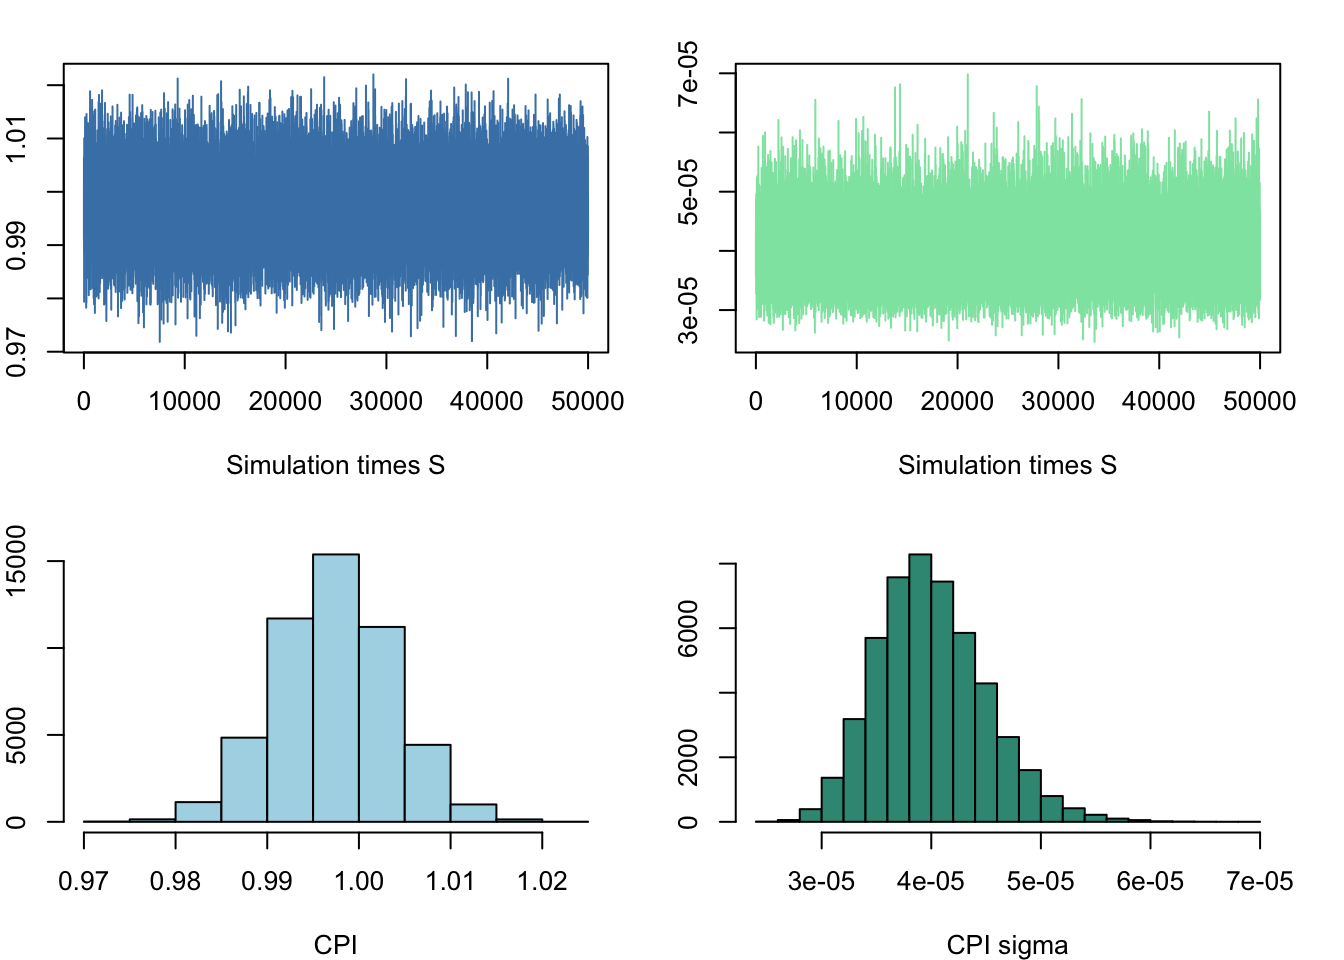
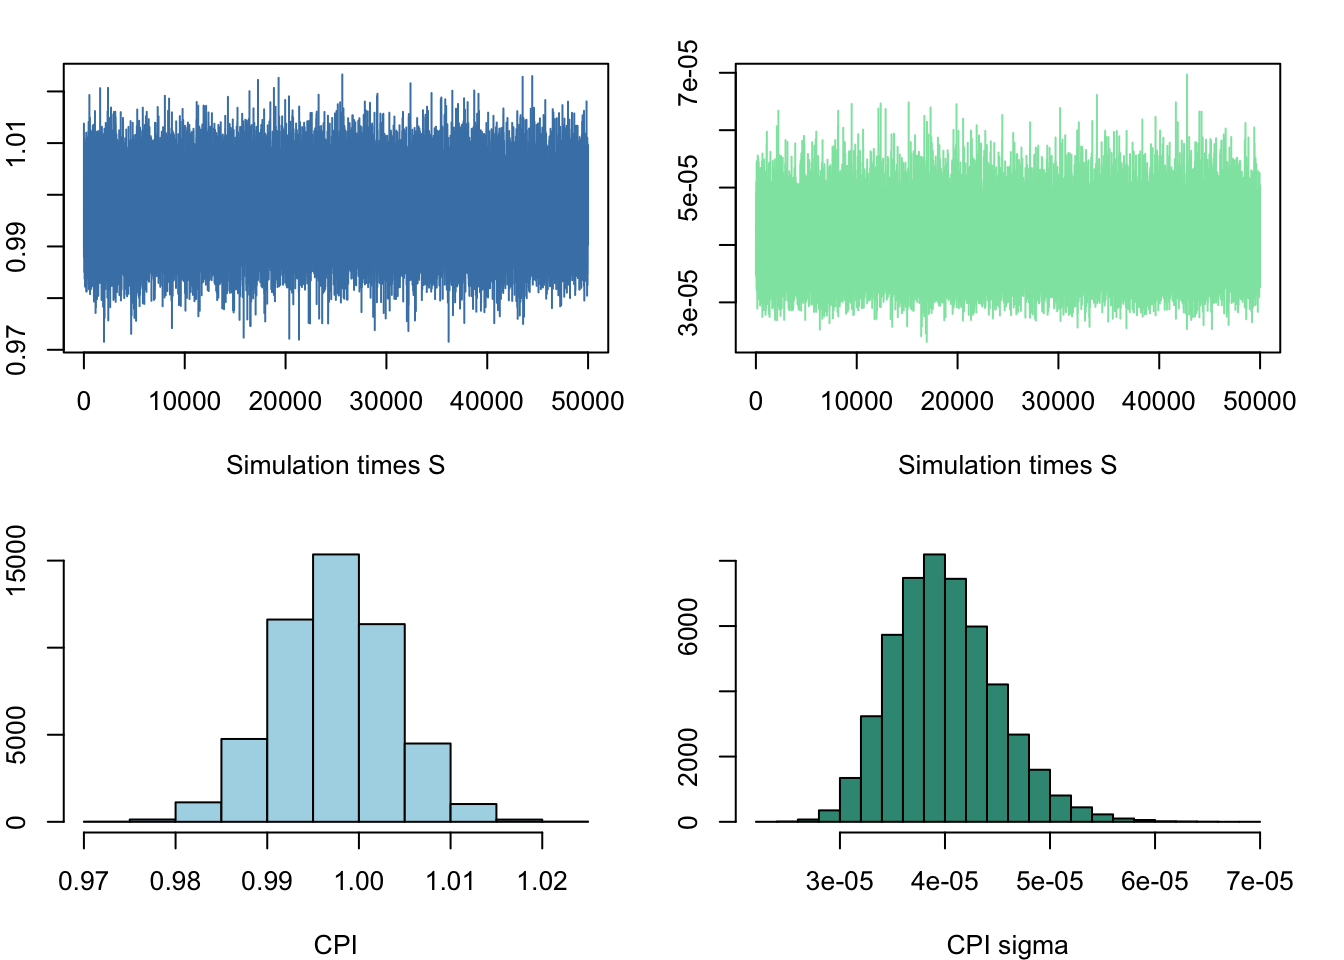
update A matrix

diff --git a/docs/index.html b/docs/index.html
@@ -491,7 +491,7 @@ E &amp;=
 <h2 class="anchored" data-anchor-id="estimation-procedure-and-algorithm">Estimation Procedure and Algorithm</h2>
 <section id="basic-model" class="level3">
 <h3 class="anchored" data-anchor-id="basic-model">Basic Model</h3>
-<p>The basic model based on the natural-conjugate prior distribution, which is specified as a matrix normal inverse Wishart distribution <span class="citation" data-cites="wozniakBsvarsBayesianEstimation2022">(<a href="#ref-wozniakBsvarsBayesianEstimation2022" role="doc-biblioref">Woźniak 2022</a>)</span>. Minnesota prior with some stylised facts about the macroeconomic time series, since <span class="math inline">\(cpi_t\)</span> and <span class="math inline">\(m_t\)</span> are unit root non-stationary and other all variables are stationary, is applied to form the specifications of the prior distribution.</p>
+<p>The basic model based on the natural-conjugate prior distribution, which is specified as a matrix normal inverse Wishart distribution <span class="citation" data-cites="wozniakBsvarsBayesianEstimation2022">(<a href="#ref-wozniakBsvarsBayesianEstimation2022" role="doc-biblioref">Woźniak 2022</a>)</span>. Minnesota prior with some stylised facts about the macroeconomic time series, since <span class="math inline">\(lcpi_t\)</span> and <span class="math inline">\(lm_t\)</span> are unit root non-stationary and other all variables are stationary, is applied to form the specifications of the prior distribution.</p>
 <p>The estimation procedures to draw from the posterior follows the steps below:</p>
 <p><strong>Step 1</strong>: Prior distribution is presented below. We will specify <span class="math inline">\(\underline{A}\)</span>, <span class="math inline">\(\underline{V}\)</span>, <span class="math inline">\(\underline{S}\)</span> and <span class="math inline">\(\underline{v}\)</span>.</p>
 <p><span class="math display">\[
@@ -499,18 +499,10 @@ p(A,\Sigma) = p(A|\Sigma)p(\Sigma)
 \]</span></p>
 <p><span class="math display">\[A|\Sigma \sim \mathcal{MN}_{K\times N}(\underline{A}, \Sigma,\underline{V} ) \]</span> <span class="math display">\[\Sigma \sim \mathcal{IW}_{N}(\underline{S}, \underline{v})\]</span></p>
 <ul>
-<li><span class="math inline">\(\underline{A}\)</span> is a <span class="math inline">\(K \times 10\)</span> matrix, reflect the random walk with no drift process on the first lag of <span class="math inline">\(cpi_{t}\)</span>, and 0 elsewhere.</li>
+<li><span class="math inline">\(\underline{A}\)</span> is a <span class="math inline">\(K \times 10\)</span> matrix, reflect the random walk with no drift process on the first lag of <span class="math inline">\(lcpi_{t}\)</span> and <span class="math inline">\(lm_{t}\)</span>, and 0 elsewhere.</li>
 </ul>
-<p><span class="math display">\[
-\underline{A} = \left[
-\underbrace{\textbf{0}_{10\times 1}}_{intercept} \quad
-\underbrace{\textbf{I}_{10} \quad\begin{matrix}
-0 &amp; \cdots  &amp;  0\\
-\vdots  &amp; \ddots  &amp; \vdots  \\
-0 &amp; \cdots  &amp; 0
-\end{matrix}_{10\times10(p-1))}}_{N\times(K-1)} \quad
-\right]'
-\]</span></p>
+<p>$$ = ’</p>
+<p>$$</p>
 <ul>
 <li><p><span class="math inline">\(\underline{V}\)</span> represents the shrinking level of the specified <span class="math inline">\(\underline{A}\)</span>.</p>
 <p>It’s a <span class="math inline">\(K\)</span> vector diagonal matrix with the diagonal elements set to be the desired shrinking level.</p></li>
@@ -534,91 +526,49 @@ p(\Sigma|Y,X)\sim \mathcal{IW}_{N}(\overline{S}, \overline{v})
 \]</span></p>
 <p>Therefore we can get: <span class="math display">\[
 \overline{V} = (X'X + \underline{V}^{-1})^{-1}
-\]</span> <span class="math display">\[
+\]</span></p>
+<p><span class="math display">\[
 \overline{A} = \overline{V}(X'Y+\underline{V}^{-1}\underline{A})
-\]</span> <span class="math display">\[
+\]</span></p>
+<p><span class="math display">\[
 \overline{v} = T + \underline{v}
-\]</span> <span class="math display">\[
+\]</span></p>
+<p><span class="math display">\[
 \overline{S} = \underline{S}+Y'Y+\underline{A'} \ \underline{V}^{-1}\underline{A}-\overline{A'}\overline{V}^{-1}\overline{A}
 \]</span></p>
 <p><strong>Step 3</strong>: As <span class="math inline">\(\overline{A}\)</span>, <span class="math inline">\(\overline{V}\)</span>, <span class="math inline">\(\overline{S}\)</span> and <span class="math inline">\(\overline{v}\)</span> are specified:</p>
 <ul>
-<li>firstly draw <span class="math inline">\(\Sigma\)</span> from <span class="math inline">\(\mathcal{IW}_{10}(\overline{S}, \overline{v})\)</span>, and take <span class="math inline">\(\Sigma\)</span> as known</li>
-<li>insert it in <span class="math inline">\(\mathcal{MN}_{K\times 10}(\overline{A}, \Sigma,\overline{V} )\)</span> to draw <span class="math inline">\(A\)</span></li>
+<li>Firstly, draw <span class="math inline">\(\Sigma\)</span> from <span class="math inline">\(\mathcal{IW}_{10}(\overline{S}, \overline{v})\)</span>, and take <span class="math inline">\(\Sigma\)</span> as known</li>
+<li>Secondly, insert it in <span class="math inline">\(\mathcal{MN}_{K\times 10}(\overline{A}, \Sigma,\overline{V} )\)</span> to draw <span class="math inline">\(A\)</span></li>
 </ul>
 <div class="cell" data-layout-align="center">
 <div class="sourceCode cell-code" id="cb1"><pre class="sourceCode r code-with-copy"><code class="sourceCode r"><span id="cb1-1"><a href="#cb1-1" aria-hidden="true" tabindex="-1"></a><span class="do">## Posterior sample draw function for basic model(posterior.draws)</span></span>
-<span id="cb1-2"><a href="#cb1-2" aria-hidden="true" tabindex="-1"></a></span>
-<span id="cb1-3"><a href="#cb1-3" aria-hidden="true" tabindex="-1"></a></span>
-<span id="cb1-4"><a href="#cb1-4" aria-hidden="true" tabindex="-1"></a>posterior.draws       <span class="ot">=</span> <span class="cf">function</span> (S, Y, X){</span>
-<span id="cb1-5"><a href="#cb1-5" aria-hidden="true" tabindex="-1"></a>    <span class="co"># normal-inverse Wishard posterior parameters</span></span>
-<span id="cb1-6"><a href="#cb1-6" aria-hidden="true" tabindex="-1"></a>    V.bar.inv         <span class="ot">=</span> <span class="fu">t</span>(X)<span class="sc">%*%</span>X <span class="sc">+</span> <span class="fu">diag</span>(<span class="dv">1</span><span class="sc">/</span><span class="fu">diag</span>(V.prior))</span>
-<span id="cb1-7"><a href="#cb1-7" aria-hidden="true" tabindex="-1"></a>    V.bar             <span class="ot">=</span> <span class="fu">solve</span>(V.bar.inv)</span>
-<span id="cb1-8"><a href="#cb1-8" aria-hidden="true" tabindex="-1"></a>    A.bar             <span class="ot">=</span> V.bar<span class="sc">%*%</span>(<span class="fu">t</span>(X)<span class="sc">%*%</span>Y <span class="sc">+</span> <span class="fu">diag</span>(<span class="dv">1</span><span class="sc">/</span><span class="fu">diag</span>(V.prior))<span class="sc">%*%</span>A.prior)</span>
-<span id="cb1-9"><a href="#cb1-9" aria-hidden="true" tabindex="-1"></a>    nu.bar            <span class="ot">=</span> <span class="fu">nrow</span>(Y) <span class="sc">+</span> nu.prior</span>
-<span id="cb1-10"><a href="#cb1-10" aria-hidden="true" tabindex="-1"></a>    S.bar             <span class="ot">=</span> S.prior <span class="sc">+</span> <span class="fu">t</span>(Y)<span class="sc">%*%</span>Y <span class="sc">+</span> <span class="fu">t</span>(A.prior)<span class="sc">%*%</span><span class="fu">diag</span>(<span class="dv">1</span><span class="sc">/</span><span class="fu">diag</span>(V.prior))<span class="sc">%*%</span>A.prior <span class="sc">-</span> <span class="fu">t</span>(A.bar)<span class="sc">%*%</span>V.bar.inv<span class="sc">%*%</span>A.bar</span>
-<span id="cb1-11"><a href="#cb1-11" aria-hidden="true" tabindex="-1"></a>    S.bar.inv         <span class="ot">=</span> <span class="fu">solve</span>(S.bar)</span>
-<span id="cb1-12"><a href="#cb1-12" aria-hidden="true" tabindex="-1"></a>    </span>
-<span id="cb1-13"><a href="#cb1-13" aria-hidden="true" tabindex="-1"></a>nu.prior</span>
-<span id="cb1-14"><a href="#cb1-14" aria-hidden="true" tabindex="-1"></a>  </span>
-<span id="cb1-15"><a href="#cb1-15" aria-hidden="true" tabindex="-1"></a>    <span class="co"># posterior draws </span></span>
-<span id="cb1-16"><a href="#cb1-16" aria-hidden="true" tabindex="-1"></a>    Sigma.posterior   <span class="ot">=</span> <span class="fu">rWishart</span>(S, <span class="at">df=</span>nu.bar, <span class="at">Sigma=</span>S.bar.inv)</span>
-<span id="cb1-17"><a href="#cb1-17" aria-hidden="true" tabindex="-1"></a>    Sigma.posterior   <span class="ot">=</span> <span class="fu">apply</span>(Sigma.posterior,<span class="dv">3</span>,solve)</span>
-<span id="cb1-18"><a href="#cb1-18" aria-hidden="true" tabindex="-1"></a>    Sigma.posterior   <span class="ot">=</span> <span class="fu">array</span>(Sigma.posterior,<span class="fu">c</span>(N,N,S))</span>
-<span id="cb1-19"><a href="#cb1-19" aria-hidden="true" tabindex="-1"></a>    A.posterior       <span class="ot">=</span> <span class="fu">array</span>(<span class="fu">rnorm</span>(<span class="fu">prod</span>(<span class="fu">c</span>(<span class="fu">dim</span>(A.bar),S))),<span class="fu">c</span>(<span class="fu">dim</span>(A.bar),S))</span>
-<span id="cb1-20"><a href="#cb1-20" aria-hidden="true" tabindex="-1"></a>    L                 <span class="ot">=</span> <span class="fu">t</span>(<span class="fu">chol</span>(V.bar))</span>
-<span id="cb1-21"><a href="#cb1-21" aria-hidden="true" tabindex="-1"></a>    </span>
+<span id="cb1-2"><a href="#cb1-2" aria-hidden="true" tabindex="-1"></a>posterior.draws       <span class="ot">=</span> <span class="cf">function</span> (S, Y, X){</span>
+<span id="cb1-3"><a href="#cb1-3" aria-hidden="true" tabindex="-1"></a>  </span>
+<span id="cb1-4"><a href="#cb1-4" aria-hidden="true" tabindex="-1"></a>    <span class="co"># normal-inverse Wishard posterior parameters</span></span>
+<span id="cb1-5"><a href="#cb1-5" aria-hidden="true" tabindex="-1"></a>    V.bar.inv         <span class="ot">=</span> <span class="fu">t</span>(X)<span class="sc">%*%</span>X <span class="sc">+</span> <span class="fu">diag</span>(<span class="dv">1</span><span class="sc">/</span><span class="fu">diag</span>(V.prior))</span>
+<span id="cb1-6"><a href="#cb1-6" aria-hidden="true" tabindex="-1"></a>    V.bar             <span class="ot">=</span> <span class="fu">solve</span>(V.bar.inv)</span>
+<span id="cb1-7"><a href="#cb1-7" aria-hidden="true" tabindex="-1"></a>    A.bar             <span class="ot">=</span> V.bar<span class="sc">%*%</span>(<span class="fu">t</span>(X)<span class="sc">%*%</span>Y <span class="sc">+</span> <span class="fu">diag</span>(<span class="dv">1</span><span class="sc">/</span><span class="fu">diag</span>(V.prior))<span class="sc">%*%</span>A.prior)</span>
+<span id="cb1-8"><a href="#cb1-8" aria-hidden="true" tabindex="-1"></a>    nu.bar            <span class="ot">=</span> <span class="fu">nrow</span>(Y) <span class="sc">+</span> nu.prior</span>
+<span id="cb1-9"><a href="#cb1-9" aria-hidden="true" tabindex="-1"></a>    S.bar             <span class="ot">=</span> S.prior <span class="sc">+</span> <span class="fu">t</span>(Y)<span class="sc">%*%</span>Y <span class="sc">+</span> <span class="fu">t</span>(A.prior)<span class="sc">%*%</span><span class="fu">diag</span>(<span class="dv">1</span><span class="sc">/</span><span class="fu">diag</span>(V.prior))<span class="sc">%*%</span>A.prior <span class="sc">-</span> <span class="fu">t</span>(A.bar)<span class="sc">%*%</span>V.bar.inv<span class="sc">%*%</span>A.bar</span>
+<span id="cb1-10"><a href="#cb1-10" aria-hidden="true" tabindex="-1"></a>    S.bar.inv         <span class="ot">=</span> <span class="fu">solve</span>(S.bar)</span>
+<span id="cb1-11"><a href="#cb1-11" aria-hidden="true" tabindex="-1"></a>    </span>
+<span id="cb1-12"><a href="#cb1-12" aria-hidden="true" tabindex="-1"></a>    <span class="co"># posterior draws </span></span>
+<span id="cb1-13"><a href="#cb1-13" aria-hidden="true" tabindex="-1"></a>    Sigma.posterior   <span class="ot">=</span> <span class="fu">rWishart</span>(S, <span class="at">df=</span>nu.bar, <span class="at">Sigma=</span>S.bar.inv)</span>
+<span id="cb1-14"><a href="#cb1-14" aria-hidden="true" tabindex="-1"></a>    Sigma.posterior   <span class="ot">=</span> <span class="fu">apply</span>(Sigma.posterior,<span class="dv">3</span>,solve)</span>
+<span id="cb1-15"><a href="#cb1-15" aria-hidden="true" tabindex="-1"></a>    Sigma.posterior   <span class="ot">=</span> <span class="fu">array</span>(Sigma.posterior,<span class="fu">c</span>(N,N,S))</span>
+<span id="cb1-16"><a href="#cb1-16" aria-hidden="true" tabindex="-1"></a>    A.posterior       <span class="ot">=</span> <span class="fu">array</span>(<span class="fu">rnorm</span>(<span class="fu">prod</span>(<span class="fu">c</span>(<span class="fu">dim</span>(A.bar),S))),<span class="fu">c</span>(<span class="fu">dim</span>(A.bar),S))</span>
+<span id="cb1-17"><a href="#cb1-17" aria-hidden="true" tabindex="-1"></a>    L                 <span class="ot">=</span> <span class="fu">t</span>(<span class="fu">chol</span>(V.bar))</span>
+<span id="cb1-18"><a href="#cb1-18" aria-hidden="true" tabindex="-1"></a>    </span>
+<span id="cb1-19"><a href="#cb1-19" aria-hidden="true" tabindex="-1"></a>    <span class="cf">for</span> (s <span class="cf">in</span> <span class="dv">1</span><span class="sc">:</span>S){</span>
+<span id="cb1-20"><a href="#cb1-20" aria-hidden="true" tabindex="-1"></a>      A.posterior[,,s]<span class="ot">=</span> A.bar <span class="sc">+</span> L<span class="sc">%*%</span>A.posterior[,,s]<span class="sc">%*%</span><span class="fu">chol</span>(Sigma.posterior[,,s])</span>
+<span id="cb1-21"><a href="#cb1-21" aria-hidden="true" tabindex="-1"></a>    }</span>
 <span id="cb1-22"><a href="#cb1-22" aria-hidden="true" tabindex="-1"></a></span>
-<span id="cb1-23"><a href="#cb1-23" aria-hidden="true" tabindex="-1"></a>    <span class="cf">for</span> (s <span class="cf">in</span> <span class="dv">1</span><span class="sc">:</span>S){</span>
-<span id="cb1-24"><a href="#cb1-24" aria-hidden="true" tabindex="-1"></a>      A.posterior[,,s]<span class="ot">=</span> A.bar <span class="sc">+</span> L<span class="sc">%*%</span>A.posterior[,,s]<span class="sc">%*%</span><span class="fu">chol</span>(Sigma.posterior[,,s])</span>
-<span id="cb1-25"><a href="#cb1-25" aria-hidden="true" tabindex="-1"></a>    }</span>
-<span id="cb1-26"><a href="#cb1-26" aria-hidden="true" tabindex="-1"></a></span>
-<span id="cb1-27"><a href="#cb1-27" aria-hidden="true" tabindex="-1"></a> </span>
-<span id="cb1-28"><a href="#cb1-28" aria-hidden="true" tabindex="-1"></a>    output            <span class="ot">=</span> <span class="fu">list</span>(<span class="at">A.posterior=</span>A.posterior, <span class="at">Sigma.posterior=</span>Sigma.posterior)</span>
-<span id="cb1-29"><a href="#cb1-29" aria-hidden="true" tabindex="-1"></a>    <span class="fu">return</span>(output)</span>
-<span id="cb1-30"><a href="#cb1-30" aria-hidden="true" tabindex="-1"></a>}</span>
-<span id="cb1-31"><a href="#cb1-31" aria-hidden="true" tabindex="-1"></a></span>
-<span id="cb1-32"><a href="#cb1-32" aria-hidden="true" tabindex="-1"></a><span class="do">## Function Applying</span></span>
-<span id="cb1-33"><a href="#cb1-33" aria-hidden="true" tabindex="-1"></a>posterior.sample.draws <span class="ot">=</span> <span class="fu">posterior.draws</span>(<span class="at">S=</span><span class="dv">50000</span>, <span class="at">Y=</span>Y, <span class="at">X=</span>X) <span class="co"># sample use S=50000</span></span>
-<span id="cb1-34"><a href="#cb1-34" aria-hidden="true" tabindex="-1"></a></span>
-<span id="cb1-35"><a href="#cb1-35" aria-hidden="true" tabindex="-1"></a><span class="co"># Presenting output</span></span>
-<span id="cb1-36"><a href="#cb1-36" aria-hidden="true" tabindex="-1"></a></span>
-<span id="cb1-37"><a href="#cb1-37" aria-hidden="true" tabindex="-1"></a><span class="fu">head</span>(<span class="fu">round</span>(<span class="fu">apply</span>(posterior.sample.draws<span class="sc">$</span>A.posterior, <span class="dv">1</span><span class="sc">:</span><span class="dv">2</span>, mean),<span class="dv">5</span>))           <span class="co"># posterior draw A</span></span></code><button title="Copy to Clipboard" class="code-copy-button"><i class="bi"></i></button></pre></div>
-<div class="cell-output cell-output-stdout">
-<pre><code>         [,1]     [,2]     [,3]     [,4]     [,5]     [,6]     [,7]     [,8]
-[1,]  0.00014 -0.03734  0.00100 -0.04927 -0.03278  0.00076  0.00489  0.00704
-[2,]  0.99733  0.01273 -0.00154  0.02272  0.03566 -0.00119  0.00109  0.00032
-[3,]  0.00440 -0.27211  0.00177  0.09515 -0.07547  0.00407  0.00181 -0.01128
-[4,] -0.00087  0.00816  0.99123 -0.05380 -0.04371  0.00097 -0.00780 -0.01499
-[5,]  0.00078  0.18035 -0.00150  0.37172 -0.22437 -0.00020  0.02095  0.01706
-[6,]  0.00616 -0.30535  0.02039 -0.26062  0.13142  0.00297 -0.00131 -0.03451
-         [,9]    [,10]
-[1,]  0.00444 -0.00075
-[2,] -0.00375 -0.00028
-[3,] -0.00634 -0.01573
-[4,]  0.00675  0.00192
-[5,] -0.00381 -0.01228
-[6,] -0.01775 -0.00197</code></pre>
+<span id="cb1-23"><a href="#cb1-23" aria-hidden="true" tabindex="-1"></a>    output            <span class="ot">=</span> <span class="fu">list</span>(<span class="at">A.posterior=</span>A.posterior, <span class="at">Sigma.posterior=</span>Sigma.posterior)</span>
+<span id="cb1-24"><a href="#cb1-24" aria-hidden="true" tabindex="-1"></a>    <span class="fu">return</span>(output)</span>
+<span id="cb1-25"><a href="#cb1-25" aria-hidden="true" tabindex="-1"></a>}</span></code><button title="Copy to Clipboard" class="code-copy-button"><i class="bi"></i></button></pre></div>
 </div>
-<div class="sourceCode cell-code" id="cb3"><pre class="sourceCode r code-with-copy"><code class="sourceCode r"><span id="cb3-1"><a href="#cb3-1" aria-hidden="true" tabindex="-1"></a><span class="fu">head</span>(<span class="fu">round</span>(<span class="fu">apply</span>(posterior.sample.draws<span class="sc">$</span>Sigma.posterior, <span class="dv">1</span><span class="sc">:</span><span class="dv">2</span>, mean),<span class="dv">5</span>))       <span class="co"># posterior draw sigma</span></span></code><button title="Copy to Clipboard" class="code-copy-button"><i class="bi"></i></button></pre></div>
-<div class="cell-output cell-output-stdout">
-<pre><code>         [,1]     [,2]     [,3]     [,4]     [,5]     [,6]     [,7]     [,8]
-[1,]  0.00004 -0.00004  0.00002  0.00011 -0.00054  0.00000 -0.00006  0.00007
-[2,] -0.00004  0.24085  0.00089  0.03549 -0.04155 -0.00039  0.00334  0.01276
-[3,]  0.00002  0.00089  0.00017  0.00083 -0.00143 -0.00001  0.00010  0.00033
-[4,]  0.00011  0.03549  0.00083  0.15893 -0.00423 -0.00069 -0.00051 -0.00213
-[5,] -0.00054 -0.04155 -0.00143 -0.00423  0.08566  0.00003 -0.00022 -0.00151
-[6,]  0.00000 -0.00039 -0.00001 -0.00069  0.00003  0.00021  0.00005  0.00007
-         [,9]    [,10]
-[1,] -0.00002 -0.00002
-[2,] -0.00711 -0.00147
-[3,] -0.00017 -0.00005
-[4,]  0.00227  0.00223
-[5,]  0.00641  0.00033
-[6,] -0.00002 -0.00010</code></pre>
-</div>
-</div>
-<p>Below are the trace plots and histograms posterior to draws on <span class="math inline">\(A\)</span> and <span class="math inline">\(\Sigma\)</span>. It is clear from the trace plots that the inflation has a very strong perfect positive correlation with its own preceding period, which is consistent with the previous distribution design and the anticipation of integration at 1.</p>
+<p>Below are the trace plots and histograms posterior to draws on <span class="math inline">\(A\)</span> and <span class="math inline">\(\Sigma\)</span>. It is clear from the trace plots that CPI has a very strong perfect positive correlation with its own preceding period, which is consistent with the previous distribution design and the anticipation of integration at 1.</p>
 <div class="cell" data-layout-align="center">
 <div class="cell-output-display">
 <div class="quarto-figure quarto-figure-center">
